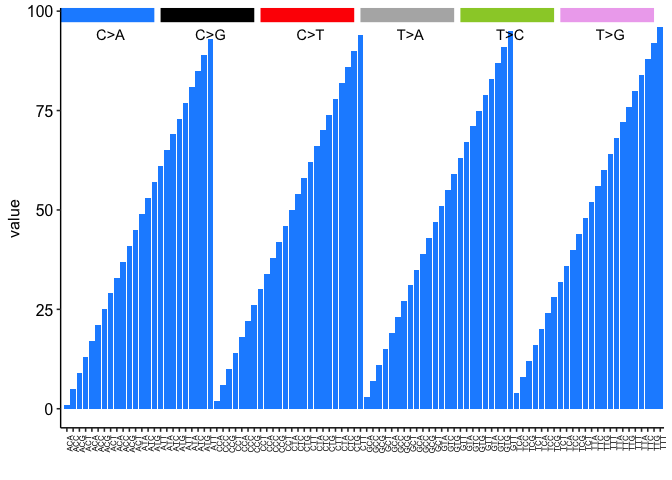
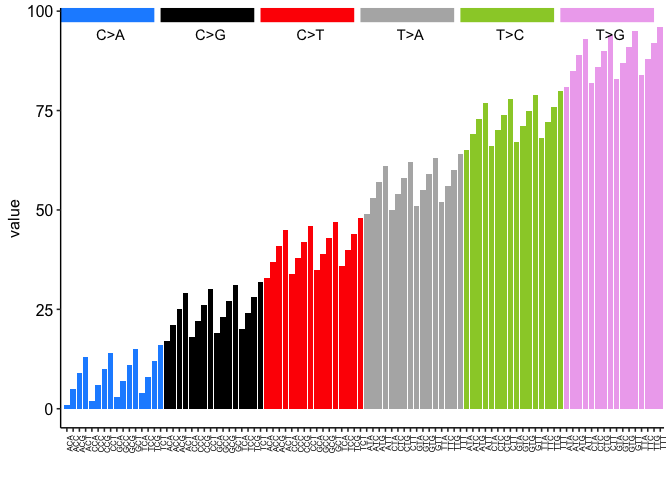
MAINT: updated hte README document with corrected plot 2

diff --git a/README.md b/README.md
@@ -85,7 +85,7 @@ You can also plot mutation spectra, for example
 ``` r
 library(mutationsR)
 kmer = gen_contexts(3)
-muts = get_mut(kmer)
+muts = sapply(kmer, get_mut)
 value = 1:96
 spectra_dt = data.frame(kmer = kmer, muts = muts, value = value)
 spectra_plot(spectra_dt)
